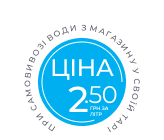
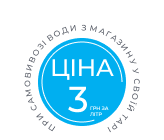
edit price

Changed region(s): [[0.3963, 0.6, 0.7317, 0.8286]]

diff --git a/app/utils/calculateWaterPrice.js b/app/utils/calculateWaterPrice.js
@@ -4,9 +4,9 @@ export const calcWaterPrice = (waterVolume, waterType) => {
   if (waterVolume === 19) {
     priceForWater = waterType === "mineralWater" ? 130 : 120;
   } else if (waterVolume === 13) {
-    priceForWater = waterType === "mineralWater" ? 75 : 70;
+    priceForWater = waterType === "mineralWater" ? 80 : 75;
   } else if (waterVolume === 11) {
-    priceForWater = waterType === "mineralWater" ? 65 : 60;
+    priceForWater = waterType === "mineralWater" ? 75 : 70;
   }
 
   return priceForWater;

diff --git a/Components/CartList/CartList.jsx b/Components/CartList/CartList.jsx
@@ -328,7 +328,7 @@ const CartList = ({ cart, otherProducts, action, newClient, children }) => {
 
                 <div className="min-w-[60px]">
                   <p className={"text-[#00AFF0] text-[24px]"}>
-                    {taraQuantity * 370} ₴
+                    {taraQuantity * 380} ₴
                   </p>
                 </div>
               </div>

diff --git a/Components/CartFinalPrice/CartFinalPrice.jsx b/Components/CartFinalPrice/CartFinalPrice.jsx
@@ -79,7 +79,7 @@ const CartFinalPrice = ({ orderForm }) => {
 
             <div className="flex justify-between mb-4">
               <p>Тара</p>
-              <p>{taraQuantity * 370} ₴</p>
+              <p>{taraQuantity * 380} ₴</p>
             </div>
 
             <div className="flex justify-between mb-4 text-[20px] font-medium">
